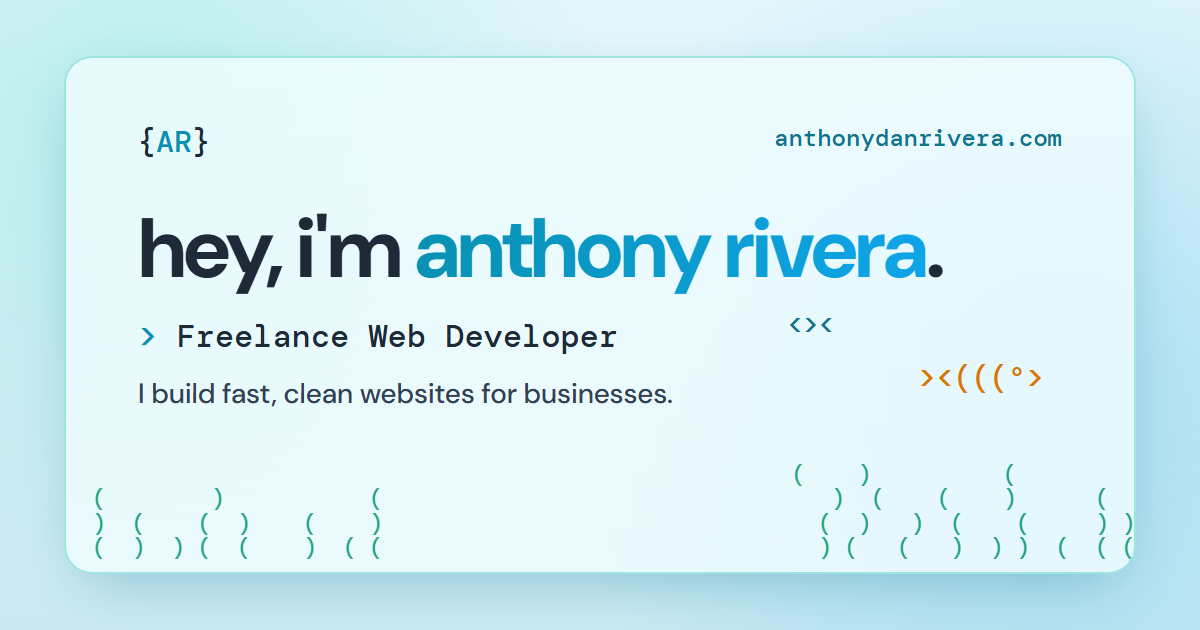
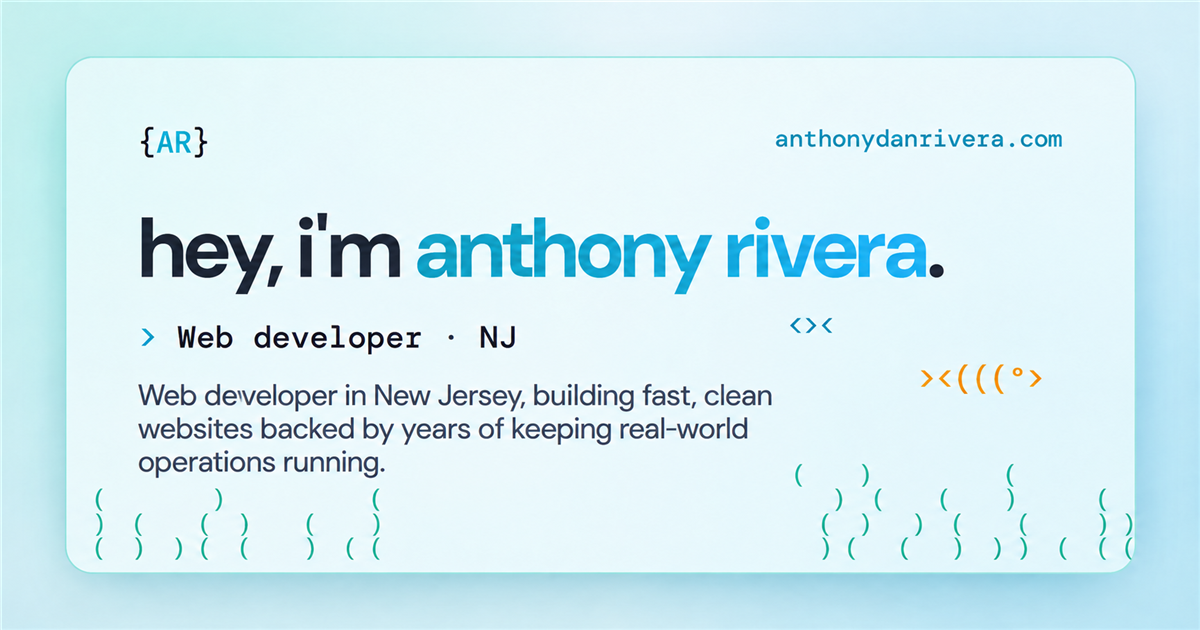
Refine developer positioning and update social preview

diff --git a/portfolio/js/main.js b/portfolio/js/main.js
@@ -1,0 +1,134 @@
+// ============ THEME TOGGLE ============
+const root = document.documentElement;
+const themeToggle = document.getElementById("themeToggle");
+
+function getSavedTheme() {
+  try { return localStorage.getItem("theme"); } catch { return null; }
+}
+
+const initialTheme =
+  getSavedTheme() ||
+  "light";
+root.setAttribute("data-theme", initialTheme);
+
+themeToggle.addEventListener("click", () => {
+  const next = root.getAttribute("data-theme") === "dark" ? "light" : "dark";
+  root.setAttribute("data-theme", next);
+  try { localStorage.setItem("theme", next); } catch {}
+});
+
+// ============ MOBILE MENU ============
+const menuToggle = document.getElementById("menuToggle");
+const navLinks = document.getElementById("navLinks");
+
+menuToggle.addEventListener("click", () => {
+  const open = navLinks.classList.toggle("is-open");
+  menuToggle.setAttribute("aria-expanded", open);
+});
+
+navLinks.querySelectorAll("a").forEach((link) =>
+  link.addEventListener("click", () => {
+    navLinks.classList.remove("is-open");
+    menuToggle.setAttribute("aria-expanded", "false");
+  })
+);
+
+// ============ NAV BACKGROUND ON SCROLL ============
+const nav = document.getElementById("nav");
+const onScroll = () => nav.classList.toggle("is-scrolled", window.scrollY > 20);
+window.addEventListener("scroll", onScroll, { passive: true });
+onScroll();
+
+// ============ ACTIVE NAV LINK ============
+const sections = document.querySelectorAll("main section[id]");
+const sectionObserver = new IntersectionObserver(
+  (entries) => {
+    entries.forEach((entry) => {
+      if (!entry.isIntersecting) return;
+      navLinks.querySelectorAll("a").forEach((a) =>
+        a.classList.toggle("is-active", a.getAttribute("href") === `#${entry.target.id}`)
+      );
+    });
+  },
+  { rootMargin: "-45% 0px -50% 0px" }
+);
+sections.forEach((s) => sectionObserver.observe(s));
+
+// ============ SCROLL REVEAL ============
+const revealObserver = new IntersectionObserver(
+  (entries) => {
+    entries.forEach((entry) => {
+      if (entry.isIntersecting) {
+        entry.target.classList.add("is-visible");
+        revealObserver.unobserve(entry.target);
+      }
+    });
+  },
+  { threshold: 0.12 }
+);
+document.querySelectorAll(".reveal").forEach((el, i) => {
+  // small stagger for elements in the hero
+  if (el.closest(".hero")) el.style.transitionDelay = `${i * 80}ms`;
+  revealObserver.observe(el);
+});
+
+// ============ TYPING EFFECT ============
+// Edit these to describe yourself
+const roles = ["Web Developer", "Operations Planner", "CS Graduate", "Excel & Data Tools Builder"];
+const typedEl = document.getElementById("typed");
+let roleIndex = 0;
+let charIndex = 0;
+let deleting = false;
+
+function type() {
+  const current = roles[roleIndex];
+  charIndex += deleting ? -1 : 1;
+  typedEl.textContent = current.slice(0, charIndex);
+
+  let delay = deleting ? 45 : 90;
+  if (!deleting && charIndex === current.length) {
+    delay = 1800;
+    deleting = true;
+  } else if (deleting && charIndex === 0) {
+    deleting = false;
+    roleIndex = (roleIndex + 1) % roles.length;
+    delay = 400;
+  }
+  setTimeout(type, delay);
+}
+type();
+
+// ============ PROJECT FILTERS ============
+const filterButtons = document.querySelectorAll(".filter");
+const cards = document.querySelectorAll(".card");
+
+filterButtons.forEach((btn) =>
+  btn.addEventListener("click", () => {
+    filterButtons.forEach((b) => b.classList.remove("is-active"));
+    btn.classList.add("is-active");
+    const filter = btn.dataset.filter;
+    cards.forEach((card) =>
+      card.classList.toggle("is-hidden", filter !== "all" && card.dataset.category !== filter)
+    );
+  })
+);
+
+// ============ CONTACT FORM ============
+// No backend yet: this opens the visitor's email app with the message filled in.
+// To receive messages directly, swap in a service like Formspree later.
+const form = document.getElementById("contactForm");
+const formNote = document.getElementById("formNote");
+const YOUR_EMAIL = "anthonydanrivera@gmail.com";
+
+form.addEventListener("submit", (e) => {
+  e.preventDefault();
+  const data = new FormData(form);
+  const subject = encodeURIComponent(`Portfolio message from ${data.get("name")}`);
+  const body = encodeURIComponent(`${data.get("message")}\n\n— ${data.get("name")} (${data.get("email")})`);
+  window.location.href = `mailto:${YOUR_EMAIL}?subject=${subject}&body=${body}`;
+  formNote.textContent = "Opening your email app…";
+  form.reset();
+});
+
+// ============ FOOTER YEAR ============
+document.getElementById("year").textContent = new Date().getFullYear();

diff --git a/index.html b/index.html
@@ -3,8 +3,8 @@
 <head>
   <meta charset="UTF-8" />
   <meta name="viewport" content="width=device-width, initial-scale=1.0" />
-  <title>Anthony Daniel Rivera | Freelance Web Developer</title>
-  <meta name="description" content="Anthony Daniel Rivera is a freelance web developer who builds fast, clean websites for businesses." />
+  <title>Anthony Daniel Rivera | Web Developer</title>
+  <meta name="description" content="Anthony Daniel Rivera is a web developer in New Jersey who builds fast, clean websites for businesses and personal portfolios." />
   <link rel="canonical" href="https://anthonydanrivera.com/" />
 
   <link rel="icon" href="assets/favicon-32.png" sizes="32x32" type="image/png" />
@@ -15,12 +15,12 @@
   <!-- Link previews when the site is shared (LinkedIn, iMessage, Slack, email...) -->
   <meta property="og:type" content="website" />
   <meta property="og:url" content="https://anthonydanrivera.com/" />
-  <meta property="og:title" content="Anthony Daniel Rivera | Freelance Web Developer" />
-  <meta property="og:description" content="Anthony Daniel Rivera is a freelance web developer who builds fast, clean websites for businesses." />
+  <meta property="og:title" content="Anthony Daniel Rivera | Web Developer" />
+  <meta property="og:description" content="Anthony Daniel Rivera is a web developer in New Jersey who builds fast, clean websites for businesses and personal portfolios." />
   <meta property="og:image" content="https://anthonydanrivera.com/assets/og-image.png" />
   <meta property="og:image:width" content="1200" />
   <meta property="og:image:height" content="630" />
-  <meta property="og:image:alt" content="hey, i'm anthony rivera. Freelance Web Developer" />
+  <meta property="og:image:alt" content="hey, i'm anthony. Web developer in New Jersey" />
   <meta name="twitter:card" content="summary_large_image" />
 
   <!-- Helps search engines show who this site belongs to -->
@@ -30,7 +30,7 @@
     "@type": "Person",
     "name": "Anthony Daniel Rivera",
     "url": "https://anthonydanrivera.com/",
-    "jobTitle": "Freelance Web Developer",
+    "jobTitle": "Web Developer",
     "email": "mailto:anthonydanrivera@gmail.com",
     "image": "https://anthonydanrivera.com/assets/og-image.png",
     "alumniOf": "New Jersey City University",
@@ -77,7 +77,7 @@
         hey, i'm <span class="gradient-text">anthony</span>.<span class="cursor" aria-hidden="true"></span>
       </h1>
       <p class="hero__lead reveal">
-        Freelance web developer in New Jersey, building fast, clean websites backed by years of
+        Web developer in New Jersey, building fast, clean websites backed by years of
         keeping real-world operations running.
       </p>
       <div class="hero__cta reveal">
@@ -108,7 +108,7 @@
       <div class="about">
         <div class="about__text reveal">
           <p>
-            I'm a freelance web developer who creates clean websites that help businesses get noticed online,
+            I'm a web developer who creates clean websites that help businesses get noticed online,
             and personal portfolios for people who want to show off their work in a way that feels like them.
           </p>
           <p>What I work with:</p>
@@ -208,7 +208,7 @@
           <div class="card__body">
             <span class="card__label">Client project</span>
             <h3>Eros Pro Cleaning</h3>
-            <p>A website for a local cleaning business that I built as a freelance project. It lays out the
+            <p>A website I built for a local cleaning business. It lays out the
               services clearly and makes it easy for customers to get in touch.</p>
             <ul class="tags"><li>Client Work</li><li>Web Design</li><li>Responsive</li></ul>
             <div class="card__links">
